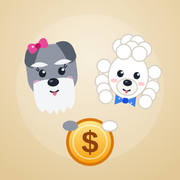
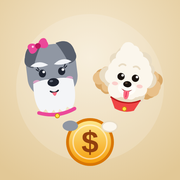
version 6 Ted y deudas

Changed region(s): [[0.5, 0.1667, 0.9167, 0.6389], [0.1944, 0.5833, 0.4444, 0.6667], [0.5556, 0.6667, 0.6389, 0.75]]

diff --git a/index.html b/index.html
@@ -86,8 +86,16 @@ nav .fab{flex:none;width:60px;height:60px;border-radius:50%;background:linear-gr
 .empty span{font-size:40px;display:block;margin-bottom:6px}
 .sect{font-size:13px;font-weight:800;color:var(--mu);text-transform:uppercase;letter-spacing:.06em;margin:16px 4px 8px}
 
-.track{position:relative;margin-top:28px}
-.pups{position:absolute;bottom:5px;transform:translateX(-100%);display:flex;gap:1px;pointer-events:none}
+.track{position:relative;margin-top:40px}
+.pups{position:absolute;bottom:5px;transform:translateX(-100%);display:flex;gap:1px;align-items:flex-end;pointer-events:none}
+.hum{width:22px;height:36px;animation:hop .34s ease-in-out infinite alternate;animation-delay:.08s;margin-right:-2px}
+.hum .lg,.hum .arm{transform-box:fill-box;transform-origin:50% 0;animation:leg .34s ease-in-out infinite alternate}
+.hum .lg.b,.hum .arm.b{animation-direction:alternate-reverse}
+.hum.sit,.hum.sit .lg,.hum.sit .arm{animation:none}
+.pups.done .hum{animation:cheer .6s ease-in-out infinite alternate}
+.pups .heart{position:absolute;top:-14px;left:34%;font-size:14px;animation:pop 1.2s ease-in-out infinite}
+@keyframes cheer{to{transform:translateY(-4px)}}
+@keyframes pop{0%{transform:translate(-50%,0) scale(.7);opacity:.6}50%{transform:translate(-50%,-6px) scale(1.15);opacity:1}100%{transform:translate(-50%,0) scale(.7);opacity:.6}}
 .pup{width:36px;height:25px;animation:hop .34s ease-in-out infinite alternate}
 .pup:nth-child(2){animation-delay:.17s}
 .pup .lg{transform-box:fill-box;transform-origin:50% 0;animation:leg .34s ease-in-out infinite alternate}
@@ -163,7 +171,7 @@ function addMonths(d,n){ const [y,m,dd]=d.split('-').map(Number); const t=new Da
 function toast(msg){ const t=$('#toast'); t.textContent=msg; t.classList.add('show'); clearTimeout(t._h); t._h=setTimeout(()=>t.classList.remove('show'),3000); }
 function fail(e){ console.error(e); toast('⚠ '+(e?.message||String(e))); }
 const num = v => parseFloat(String(v??'').replace(/[^0-9.\-]/g,''))||0;
-function openSheet(html){ $('#sheetBody').innerHTML=html; $('#sheet').classList.add('show'); }
+function openSheet(html){ $('#sheetBody').innerHTML=html; $('#sheet').classList.add('show'); const b=$('#sbox'); if(b){ b.scrollTop=0; b.style.transform=''; } }
 function closeSheet(){ $('#sheet').classList.remove('show'); $('#sbox').style.transform=''; }
 // deslizar hacia abajo para cerrar
 (function(){ let y0=null, dy=0; const box=()=>$('#sbox');
@@ -264,7 +272,7 @@ function gst(g, over){
   let avance,falta,n=0,cuota=0,pend=0,pct=0,st='',stc='hint';
   const cyc=g.cycle_from||g.created_at||'';
   const pagCiclo=-sum(ms.filter(m=>m.kind==='pago'&&(m.created_at||'')>cyc).map(m=>m.amount));
-  if(g.kind==='fijo'){
+  if(isCyc(g)){
     const porPagar=Math.max(0,target-pagCiclo);
     avance=saldo+pagCiclo; falta=Math.max(0,porPagar-saldo);
     n=due?countQ(q,due):Math.max(1,2*freqOf(g));
@@ -522,12 +530,13 @@ function movRow(m){
 
 
 // ---------- perritos corriendo ----------
-function pupLia(run){ // schnauzer gris niña
+function pupLia(run){ // Lia: schnauzer gris niña, pechera rosa
   const f='#9097a3', st='#59606d';
   return `<svg class="pup ${run?'':'sit'}" viewBox="0 0 48 32"><path d="M10 14 Q5 9 7 3" stroke="${st}" stroke-width="3" fill="none" stroke-linecap="round"/>
     <rect class="lg" x="11" y="19" width="3.6" height="10" rx="1.8" fill="${f}"/><rect class="lg b" x="15.6" y="19" width="3.6" height="10" rx="1.8" fill="${f}"/>
     <rect class="lg b" x="25" y="19" width="3.6" height="10" rx="1.8" fill="${f}"/><rect class="lg" x="29.6" y="19" width="3.6" height="10" rx="1.8" fill="${f}"/>
     <rect x="8" y="11" width="27" height="11.5" rx="5.7" fill="${f}"/><path d="M12 22 q3 4 6 0 q3 4 6 0 q3 4 6 0" fill="#e5e7eb"/>
+    <path d="M24 11 h7 v11.5 h-7 z" fill="#ec4899"/><path d="M24 15.5 h7" stroke="#be185d" stroke-width="1"/><circle cx="27.5" cy="11.6" r="1.1" fill="#fde047"/>
     <rect x="29" y="3.5" width="12.5" height="12.5" rx="4" fill="${f}"/>
     <path d="M30 6 Q31 1 36.5 3 Q33 5 32 10.5 Z" fill="${st}"/>
     <path d="M36 9.5 h8 a2.2 2.2 0 0 1 0 4.4 h-1 q-1 6.5 -7.5 5 z" fill="#f4f5f7"/>
@@ -535,28 +544,47 @@ function pupLia(run){ // schnauzer gris niña
     <circle cx="37" cy="8.6" r="1.2" fill="#1f2430"/><path d="M36 7.6 l-1.2 -1" stroke="#1f2430" stroke-width=".7"/><circle cx="45" cy="11.3" r="1.6" fill="#1f2430"/>
     <path d="M31.5 3.2 c-1 -2.6 -4 -2.4 -3.6 0 c-.4 2.4 2.6 2.6 3.6 0z M31.5 3.2 c1 -2.6 4 -2.4 3.6 0 c.4 2.4 -2.6 2.6 -3.6 0z" fill="#ec4899"/><circle cx="31.5" cy="3.2" r="1.1" fill="#be185d"/></svg>`;
 }
-function pupTed(run){ // poodle blanco niño
-  const f='#ffffff', st='#cfc8bb';
-  const leg=(x,c)=>`<g class="lg ${c}"><rect x="${x}" y="19" width="3" height="9" rx="1.5" fill="${f}" stroke="${st}" stroke-width=".7"/><circle cx="${x+1.5}" cy="28.6" r="2.4" fill="${f}" stroke="${st}" stroke-width=".7"/></g>`;
-  return `<svg class="pup ${run?'':'sit'}" viewBox="0 0 48 32"><path d="M10 15 Q7 11 7.5 7" stroke="${st}" stroke-width="1.6" fill="none"/><circle cx="7" cy="5.5" r="3.6" fill="${f}" stroke="${st}" stroke-width=".8"/>
-    ${leg(11,'')}${leg(15.5,'b')}${leg(25,'b')}${leg(29.5,'')}
-    <ellipse cx="21" cy="16.5" rx="13" ry="6.8" fill="${f}" stroke="${st}" stroke-width=".9"/>
-    <circle cx="23" cy="11.5" r="3" fill="${f}" stroke="${st}" stroke-width=".7"/><circle cx="28" cy="11" r="3" fill="${f}" stroke="${st}" stroke-width=".7"/>
-    <circle cx="36.5" cy="10.5" r="6.4" fill="${f}" stroke="${st}" stroke-width=".9"/>
-    <circle cx="34" cy="4.2" r="3.2" fill="${f}" stroke="${st}" stroke-width=".7"/><circle cx="38.5" cy="3.4" r="3.1" fill="${f}" stroke="${st}" stroke-width=".7"/><circle cx="36.3" cy="2.6" r="2.6" fill="${f}" stroke="${st}" stroke-width=".7"/>
-    <ellipse cx="33" cy="13.5" rx="3" ry="5" fill="${f}" stroke="${st}" stroke-width=".8"/>
-    <ellipse cx="43" cy="12.4" rx="3.8" ry="2.7" fill="#faf7f2" stroke="${st}" stroke-width=".7"/>
-    <circle cx="38.2" cy="9.3" r="1.15" fill="#1f2430"/><circle cx="46" cy="11.9" r="1.4" fill="#1f2430"/>
-    <path d="M33 18 l-3 -1.8 v3.6z M33 18 l3 -1.8 v3.6z" fill="#3b82f6"/><circle cx="33" cy="18" r="1" fill="#1d4ed8"/></svg>`;
+function pupTed(run){ // Ted: blanco crema esponjado, orejas beige, pechera roja
+  const f='#fbf6ec', sh='#e6d8bf', ear='#e3b97f';
+  const fl=(x,y,r)=>`<circle cx="${x}" cy="${y}" r="${r}" fill="${f}"/>`;
+  const leg=(x,c)=>`<g class="lg ${c}"><rect x="${x}" y="18" width="3.6" height="10" rx="1.8" fill="${f}" stroke="${sh}" stroke-width=".6"/><circle cx="${x+1.8}" cy="28.4" r="2.3" fill="${f}" stroke="${sh}" stroke-width=".6"/></g>`;
+  return `<svg class="pup ${run?'':'sit'}" viewBox="0 0 48 32">
+    <g class="tail"><circle cx="8" cy="7" r="3.6" fill="${f}" stroke="${sh}" stroke-width=".6"/><circle cx="5.5" cy="4.5" r="2.8" fill="${f}" stroke="${sh}" stroke-width=".6"/><circle cx="9.5" cy="3.5" r="2.4" fill="${f}" stroke="${sh}" stroke-width=".6"/></g>
+    ${leg(11,'')}${leg(15.6,'b')}${leg(25,'b')}${leg(29.6,'')}
+    <ellipse cx="21" cy="16" rx="13.5" ry="7.4" fill="${f}" stroke="${sh}" stroke-width=".8"/>
+    ${fl(12,12,4)}${fl(18,10.5,4)}${fl(25,10.5,4)}${fl(13,20,3.4)}${fl(21,21.5,3.4)}${fl(28,20.5,3.4)}
+    <path d="M24 10 h6.5 v12.5 h-6.5 z" fill="#ef4444"/><path d="M24 15.5 h6.5" stroke="#b91c1c" stroke-width="1"/><circle cx="27.2" cy="10.6" r="1.1" fill="#fde047"/>
+    <circle cx="37" cy="10" r="7" fill="${f}" stroke="${sh}" stroke-width=".8"/>${fl(34,4.5,3.4)}${fl(38.5,3.8,3.2)}${fl(41.5,6,2.8)}
+    <ellipse cx="33.2" cy="11.5" rx="3" ry="4.6" fill="${ear}"/>
+    <ellipse cx="43" cy="12" rx="3.6" ry="2.8" fill="#fffdf8" stroke="${sh}" stroke-width=".6"/>
+    <circle cx="38.6" cy="8.6" r="1.35" fill="#1b1410"/><circle cx="46" cy="11.3" r="1.5" fill="#1b1410"/>
+    <path d="M42 14.2 q1 3.6 2.6 0.6" fill="#fb7185"/></svg>`;
 }
-const pups = (pct,run=true) => `<div class="pups" style="left:max(74px,${pct}%)">${pupTed(run)}${pupLia(run)}</div>`;
+function human(woman, run){ // corren detrás de los perritos
+  const skin='#f1c27d', hair=woman?'#5b3a29':'#2b2118', top=woman?'#a855f7':'#2563eb', pants=woman?'#334155':'#1e293b';
+  return `<svg class="hum ${run?'':'sit'}" viewBox="0 0 26 42">
+    <g class="lg"><rect x="10" y="23" width="3.6" height="14" rx="1.8" fill="${pants}"/><rect x="9.5" y="35.5" width="6" height="3" rx="1.5" fill="#f8fafc" stroke="#94a3b8" stroke-width=".5"/></g>
+    <g class="lg b"><rect x="13" y="23" width="3.6" height="14" rx="1.8" fill="${pants}"/><rect x="12.5" y="35.5" width="6" height="3" rx="1.5" fill="#f8fafc" stroke="#94a3b8" stroke-width=".5"/></g>
+    <g class="arm b"><rect x="10.5" y="12" width="3" height="10" rx="1.5" fill="${skin}"/></g>
+    <rect x="9" y="11" width="9" height="13.5" rx="4" fill="${top}"/>
+    <g class="arm"><rect x="13" y="12" width="3" height="10" rx="1.5" fill="${skin}"/></g>
+    <circle cx="14.5" cy="6" r="4.6" fill="${skin}"/>
+    ${woman?`<path d="M10 6 Q10 0.6 15 1.2 Q19.5 1.6 19 5 Q15 3.4 12 5.6 Z" fill="${hair}"/><path class="pony" d="M10.4 4 Q4 4 3.6 9 Q7 7.6 10.6 7.4 Z" fill="${hair}"/><circle cx="10.6" cy="4.8" r="1.1" fill="#ec4899"/>`
+           :`<path d="M10 5.6 Q10 0.8 15 1 Q19.6 1.4 19 4.6 Q15 3.2 11.4 6.8 Z" fill="${hair}"/>`}
+    <circle cx="17" cy="6" r=".8" fill="#1f2430"/><path d="M16.6 8.4 q1 .8 2 0" stroke="#7c2d12" stroke-width=".6" fill="none"/></svg>`;
+}
+function pups(pct, run=true){
+  const done=!run, showH=pct>=60||done, gap=done?0:Math.round(Math.max(0,100-pct)/40*44);
+  const min=showH?40+64+gap+84:84;
+  return `<div class="pups${done?' done':''}" style="left:max(${min}px,${pct}%)">${showH?human(true,!done)+human(false,!done)+`<i style="width:${gap}px;flex:none"></i>`:''}${pupTed(run)}${pupLia(run)}${done&&showH?'<span class="heart">💖</span>':''}</div>`;
+}
 
 // ---------- INICIO ----------
 function goalRow(g, opts={}){
   const s=gst(g), [bg,fg]=KCOL[g.kind];
   const barCol=s.stc==='red'?'var(--rd)':s.stc==='done'?'var(--pr)':s.stc==='green'?'var(--ok)':fg;
-  const right=g.kind==='fijo'?`${money(s.avance)}<span class="mu"> / ${money(g.target)}</span>`:`${money(s.avance)}${+g.target?`<span class="mu"> / ${money(g.target)}</span>`:''}`;
-  const sub=g.kind==='fijo'?((s.pagCiclo>0.5&&s.pagCiclo<(+g.target||0)-0.5?`Pagado ${money(s.pagCiclo)} · `:'')+(s.due?`Paga ${fmtD(s.due)}`:'Sin fecha de pago')):(s.due?`Meta ${fmtD(s.due)}`:(+g.cuota?`${money(g.cuota)} por quincena`:''));
+  const right=isCyc(g)?`${money(s.avance)}<span class="mu"> / ${money(g.target)}</span>`:`${money(s.avance)}${+g.target?`<span class="mu"> / ${money(g.target)}</span>`:''}`;
+  const sub=isCyc(g)?((s.pagCiclo>0.5&&s.pagCiclo<(+g.target||0)-0.5?`Pagado ${money(s.pagCiclo)} · `:'')+(s.due?(g.subtype==='tdc'?`Límite ${fmtD(s.due)}`:`Paga ${fmtD(s.due)}`):'Sin fecha de pago')+(g.subtype==='tdc'&&+ex(g).total?` · debes ${money(ex(g).total)}`:'')):(s.due?`Meta ${fmtD(s.due)}`:(+g.cuota?`${money(g.cuota)} por quincena`:''));
   return `<div class="item" ${opts.click?`onclick="sheetGoal('${g.id}')" style="cursor:pointer"`:''}>
     <div class="ic" style="background:${bg};color:${fg}">${esc(g.icon||'🎯')}</div>
     <div class="grow"><div class="row"><span class="nm">${esc(g.name)}</span><span class="b" style="white-space:nowrap">${right}</span></div>
@@ -566,7 +594,7 @@ function goalRow(g, opts={}){
 }
 function vInicio(){
   const q=currentQ(), nq=shiftQ(q,1), l=libre(), dl=daysLeft(), gs=activeGoals();
-  const fijos=gs.filter(g=>g.kind==='fijo').sort((a,b)=>(a.due_date||'9')<(b.due_date||'9')?-1:1), metas=gs.filter(g=>g.kind!=='fijo');
+  const fijos=gs.filter(isCyc).sort((a,b)=>(a.due_date||'9')<(b.due_date||'9')?-1:1), metas=gs.filter(g=>!isCyc(g));
   const alerts=gs.map(g=>[g,gst(g)]).filter(([g,s])=>s.stc==='red');
   const banks=S.accounts.map(a=>({a,v:accSaved(a.name)})).filter(x=>Math.abs(x.v)>0.5||+x.a.tope);
   const last=S.movs.filter(movMine).slice(0,6);
@@ -645,14 +673,15 @@ function historyOf(g){
 function sheetMove(id,kind){
   const g=goalById(id), s=gst(g);
   const title={aparta:'＋ Meter dinero',retira:'↩ Sacar dinero',pago:'💳 Registrar pago'}[kind];
-  const porPagar=g.kind==='fijo'?Math.max(0,(+g.target||0)-s.pagCiclo):0;
-  const def=kind==='pago'?(g.kind==='fijo'?Math.min(Math.max(0,s.saldo),porPagar||s.saldo):Math.max(0,s.saldo)):0;
+  const porPagar=isCyc(g)?Math.max(0,(+g.target||0)-s.pagCiclo):0;
+  const def=kind==='pago'?(isCyc(g)?Math.min(Math.max(0,s.saldo),porPagar||s.saldo):Math.max(0,s.saldo)):0;
   openSheet(`<h1>${esc(g.icon||'')} ${esc(g.name)}</h1><div class="mu" style="margin-top:-6px">${title} · saldo ${money(s.saldo)}</div>
   <input id="mv_amt" class="amt" style="margin-top:14px" type="number" inputmode="decimal" value="${def>0?Math.round(def):''}" placeholder="${kind==='aparta'&&s.pend>0.5?Math.round(s.pend):'$0'}">
   ${kind==='aparta'?`<p class="mu">Sale de tu dinero sin repartir (${money(libre())}).${s.pend>0.5?' Vacío = sugerido '+money(s.pend)+'.':''}</p>`:''}
   ${kind==='retira'?`<p class="mu">El dinero que saques regresa a tu <b>saldo libre</b>.</p>`:''}
   ${kind==='pago'?`<p class="mu">Se descuenta de este apartado, no de tu saldo libre. Puedes pagar en partes.</p>
-    ${g.kind==='fijo'?`<div class="card" style="background:var(--bg);box-shadow:none;padding:12px"><div class="row sm"><span>Este periodo</span><b>Pagado ${money(s.pagCiclo)} de ${money(g.target)}</b></div>
+    ${g.subtype==='tdc'?`<div class="row sm" style="margin-bottom:8px"><span>Al corte <b>${money(ex(g).corte)}</b></span><span>Mínimo <b>${money(ex(g).minimo)}</b></span><span>Debes <b>${money(ex(g).total)}</b></span></div>`:''}
+    ${isCyc(g)?`<div class="card" style="background:var(--bg);box-shadow:none;padding:12px"><div class="row sm"><span>Este periodo</span><b>Pagado ${money(s.pagCiclo)} de ${money(g.target)}</b></div>
       <label style="display:flex;gap:10px;align-items:center;margin:10px 0 0;color:var(--tx)"><input id="mv_done" type="checkbox" style="width:22px;height:22px" ${def>=porPagar-0.5?'checked':''}>
       <span>Ya quedó liquidado${g.due_date?`: pasar al siguiente pago (<b>${fmtD(addPeriod(g.due_date,freqOf(g)))}</b>)`:''}</span></label></div>`:''}`:''}
   <div class="grid2"><div><label>Nota</label><input id="mv_note" placeholder="Opcional"></div><div><label>Fecha</label><input id="mv_date" type="date" value="${todayISO()}"></div></div>
@@ -662,39 +691,79 @@ function saveMove(id,kind){
   const g=goalById(id), v=num($('#mv_amt').value)||(kind==='aparta'?Math.round(gst(g).pend):0); if(v<=0) return toast('Escribe un monto');
   if(kind==='aparta'){ if(!doApartar(g,v)) return; }
   else { const ops=[{table:'movements',action:'insert',row:apartarOps(g,v,kind,$('#mv_note').value.trim(),$('#mv_date').value)}];
-    if(kind==='pago'&&g.kind==='fijo'&&($('#mv_done')?.checked || gst(g).pagCiclo+v>=(+g.target||0)-0.5)){
+    if(kind==='pago'&&g.subtype==='tdc'&&+ex(g).total) ops.push({table:'goals',action:'update',row:{extra:{...ex(g),total:Math.max(0,+ex(g).total-v)}},match:{id}});
+    if(kind==='pago'&&isCyc(g)&&($('#mv_done')?.checked || gst(g).pagCiclo+v>=(+g.target||0)-0.5)){
       const row={cycle_from:new Date(Date.now()+120000).toISOString()}; if(g.due_date) row.due_date=addPeriod(g.due_date,freqOf(g));
       ops.push({table:'goals',action:'update',row,match:{id}}); }
     db(ops); }
-  closeSheet(); toast(kind==='pago'?`💳 Pago de ${money(v)} registrado${g.kind==='fijo'&&!$('#mv_done')?.checked&&gst(g).falta>0.5?' · pago parcial':''}`:kind==='retira'?`↩ ${money(v)} regresaron a tu saldo libre`:`✅ ${money(v)} a ${g.name}`);
+  closeSheet(); toast(kind==='pago'?`💳 Pago de ${money(v)} registrado${isCyc(g)&&!$('#mv_done')?.checked&&gst(g).falta>0.5?' · pago parcial':''}${g.subtype==='tdc'&&$('#mv_done')?.checked?' · cuando llegue tu nuevo estado de cuenta, actualiza el saldo al corte':''}`:kind==='retira'?`↩ ${money(v)} regresaron a tu saldo libre`:`✅ ${money(v)} a ${g.name}`);
 }
+const isCyc = g => g.kind==='fijo' || (g.kind==='pago' && g.subtype==='tdc');   // se paga por periodos
+const SUBS = {tdc:'💳 Tarjeta de crédito', prestamo:'🏦 Préstamo', otro:'📄 Otra'};
+const ex = g => g.extra||{};
 function sheetEdit(id){
-  const g=id==='new'?{kind:'fijo',account:(S.accounts[0]||{}).name||'Banorte',owner:defOwner(),icon:'🎯',freq_months:1}:goalById(id);
-  window._ic=g.icon||'🎯';
+  const g=id==='new'?{kind:'fijo',account:(S.accounts[0]||{}).name||'Banorte',owner:defOwner(),icon:'🎯',freq_months:1,subtype:'tdc',extra:{}}:goalById(id);
+  const e=ex(g);
+  window._ic=g.icon||'🎯'; window._sub=g.subtype||(g.kind==='pago'?'otro':'tdc'); window._plan=e.plan||'corte';
   openSheet(`<h1>${id==='new'?'Nuevo apartado':'Editar'}</h1>
   <label>Tipo</label><div class="grid3" id="e_kind">${Object.keys(KINDS).map(k=>`<button class="mini ${g.kind===k?'':'sec'}" data-k="${k}" onclick="setKind('${k}')">${{fijo:'📆 Fijo',pago:'🤝 Deuda',meta:'🎯 Meta'}[k]}</button>`).join('')}</div>
   <input type="hidden" id="e_k" value="${g.kind}">
-  <p class="mu sm" id="e_help" style="margin:8px 0 0">${kindHelp(g.kind)}</p>
-  <label>Ícono</label><div class="chips" id="e_ics" style="flex-wrap:wrap">${EMOJIS.map(e=>`<button class="chip ${e===window._ic?'on':''}" style="padding:6px 9px;font-size:20px" onclick="window._ic='${e}';pickOn('e_ics',this)">${e}</button>`).join('')}</div>
+  <div id="e_subw"><label>¿Qué tipo de deuda?</label><div class="grid3" id="e_sub">${Object.entries(SUBS).map(([k,t])=>`<button class="mini" data-s="${k}" onclick="setSub('${k}')">${t}</button>`).join('')}</div></div>
+  <p class="mu sm" id="e_help" style="margin:8px 0 0"></p>
+  <label>Ícono</label><div class="chips" id="e_ics" style="flex-wrap:wrap">${EMOJIS.map(x=>`<button class="chip ${x===window._ic?'on':''}" style="padding:6px 9px;font-size:20px" onclick="window._ic='${x}';pickOn('e_ics',this)">${x}</button>`).join('')}</div>
   <label>Nombre</label><input id="e_name" value="${esc(g.name)}" placeholder="Ej. Internet">
-  <div class="grid2"><div><label id="e_tl">${g.kind==='fijo'?'Monto a pagar':'Meta total'}</label><input id="e_target" type="number" inputmode="decimal" value="${g.target??''}"></div>
-  <div><label id="e_dl">${g.kind==='fijo'?'Próximo pago':'Fecha meta'}</label><input id="e_due" type="date" value="${g.due_date??''}"></div></div>
-  <div class="grid2"><div id="e_freqw" style="${g.kind==='fijo'?'':'display:none'}"><label>Cada cuánto</label><select id="e_freq">${[[0,'Cada quincena'],[1,'Cada mes'],[2,'Cada 2 meses'],[3,'Cada 3 meses'],[6,'Cada 6 meses'],[12,'Cada año']].map(([n,t])=>`<option value="${n}" ${freqOf(g)===n?'selected':''}>${t}</option>`).join('')}</select></div>
-  <div id="e_cuw" style="${g.kind==='fijo'?'display:none':''}"><label>Cuota fija (opcional)</label><input id="e_cuota" type="number" inputmode="decimal" value="${g.cuota??''}" placeholder="Si no hay fecha"></div>
+  <div id="e_tdc" class="card" style="background:var(--bg);box-shadow:none;padding:12px;margin:12px 0 0">
+    <div class="grid2"><div><label style="margin-top:0">Deuda total</label><input id="e_total" type="number" inputmode="decimal" value="${e.total??''}" placeholder="Todo lo que debes"></div>
+    <div><label style="margin-top:0">Saldo al corte</label><input id="e_corte" type="number" inputmode="decimal" value="${e.corte??''}" placeholder="Para no pagar intereses"></div></div>
+    <div class="grid2"><div><label>Pago mínimo</label><input id="e_min" type="number" inputmode="decimal" value="${e.minimo??''}"></div>
+    <div><label>Fecha de corte</label><input id="e_fcorte" type="date" value="${e.fcorte??''}"></div></div>
+    <label>¿Cuánto vas a pagar este mes?</label><div class="grid3" id="e_plan">${[['corte','Saldo al corte'],['minimo','Mínimo'],['otro','Otra cantidad']].map(([k,t])=>`<button class="mini" data-p="${k}" onclick="setPlan('${k}')">${t}</button>`).join('')}</div>
+    <div id="e_otrow"><label>Otra cantidad</label><input id="e_otro" type="number" inputmode="decimal" value="${e.otro??''}"></div>
+    <p class="mu sm" style="margin-bottom:0">Pagar el saldo al corte evita intereses. Cada mes, cuando llegue tu estado de cuenta, actualiza el saldo al corte y el mínimo.</p></div>
+  <div class="grid2"><div id="e_tw"><label id="e_tl">Monto</label><input id="e_target" type="number" inputmode="decimal" value="${g.target??''}"></div>
+  <div><label id="e_dl">Fecha</label><input id="e_due" type="date" value="${g.due_date??''}"></div></div>
+  <div class="grid2"><div id="e_freqw"><label>Cada cuánto</label><select id="e_freq">${[[0,'Cada quincena'],[1,'Cada mes'],[2,'Cada 2 meses'],[3,'Cada 3 meses'],[6,'Cada 6 meses'],[12,'Cada año']].map(([n,t])=>`<option value="${n}" ${freqOf(g)===n?'selected':''}>${t}</option>`).join('')}</select></div>
+  <div id="e_cuw"><label id="e_cul">Cuota fija (opcional)</label><input id="e_cuota" type="number" inputmode="decimal" value="${g.cuota??''}" placeholder="Si no hay fecha"></div>
   <div><label>Banco</label><select id="e_acc">${S.accounts.map(a=>`<option ${g.account===a.name?'selected':''}>${esc(a.name)}</option>`).join('')}</select></div></div>
   <label>De quién</label><select id="e_owner">${people().map(p=>`<option ${g.owner===p?'selected':''}>${esc(p)}</option>`).join('')}</select>
   <button class="full" style="margin-top:16px" onclick="saveGoal('${id}')">Guardar</button>
   ${id!=='new'?`<div class="grid2" style="margin-top:10px"><button class="sec" onclick="archiveGoal('${id}')">🗄 Archivar</button><button class="dg" onclick="delGoal('${id}')">🗑 Borrar</button></div>${historyOf(g)}`:''}`);
+  setKind(g.kind, true); setPlan(window._plan);
 }
-const kindHelp = k => ({fijo:'Algo que pagas cada cierto tiempo: renta, internet, luz, tarjeta de crédito al corte. Pon cuánto y cuándo pagas; puedes pagarlo en partes.',pago:'Algo que debes: préstamo, mecánico. Pon cuánto debes y para cuándo.',meta:'Algo para lo que ahorras: Navidad, fondo médico. Pon cuánto quieres juntar y para cuándo.'})[k];
-function setKind(k){ $('#e_k').value=k; document.querySelectorAll('#e_kind button').forEach(b=>b.classList.toggle('sec',b.dataset.k!==k));
-  $('#e_help').textContent=kindHelp(k); $('#e_tl').textContent=k==='fijo'?'Monto a pagar':k==='pago'?'Cuánto debes':'Meta total'; $('#e_dl').textContent=k==='fijo'?'Próximo pago':'Fecha meta';
-  $('#e_freqw').style.display=k==='fijo'?'':'none'; $('#e_cuw').style.display=k==='fijo'?'none':''; }
+const HELP = {fijo:'Algo que pagas cada cierto tiempo: renta, internet, luz, Uber. Pon cuánto y cuándo pagas; puedes pagarlo en partes.',
+  meta:'Algo para lo que ahorras: Navidad, fondo médico. Pon cuánto quieres juntar y para cuándo.',
+  tdc:'Tarjeta de crédito: pon tu deuda total, el saldo al corte, el pago mínimo y la fecha límite. La app te dice cuánto apartar para pagar a tiempo.',
+  prestamo:'Préstamo: pon cuánto debes, cuánto pagas cada vez y para cuándo lo quieres liquidar.',
+  otro:'Otra deuda: mecánico, un amigo… pon cuánto debes y para cuándo.'};
+function setKind(k, keepSub){
+  $('#e_k').value=k; document.querySelectorAll('#e_kind button').forEach(b=>b.classList.toggle('sec',b.dataset.k!==k));
+  $('#e_subw').style.display=k==='pago'?'':'none';
+  if(k==='pago') setSub(window._sub==='tdc'||window._sub==='prestamo'||window._sub==='otro'?window._sub:'otro');
+  else { $('#e_tdc').style.display='none'; $('#e_tw').style.display=''; $('#e_help').textContent=HELP[k];
+    $('#e_tl').textContent=k==='fijo'?'Monto a pagar':'Meta total'; $('#e_dl').textContent=k==='fijo'?'Próximo pago':'Fecha meta';
+    $('#e_freqw').style.display=k==='fijo'?'':'none'; $('#e_cuw').style.display=k==='fijo'?'none':''; $('#e_cul').textContent='Cuota fija (opcional)'; }
+}
+function setSub(sb){
+  window._sub=sb; document.querySelectorAll('#e_sub button').forEach(b=>b.classList.toggle('sec',b.dataset.s!==sb));
+  $('#e_help').textContent=HELP[sb]; const tdc=sb==='tdc';
+  $('#e_tdc').style.display=tdc?'':'none'; $('#e_tw').style.display=tdc?'none':''; $('#e_freqw').style.display='none';
+  $('#e_cuw').style.display=tdc?'none':''; $('#e_dl').textContent=tdc?'Fecha límite de pago':sb==='prestamo'?'Liquidarlo para':'Para cuándo';
+  $('#e_tl').textContent='Cuánto debes'; $('#e_cul').textContent=sb==='prestamo'?'Pago por quincena (opcional)':'Cuota fija (opcional)';
+  if(tdc&&window._ic==='🎯'){ window._ic='💳'; }
+}
+function setPlan(p){ window._plan=p; document.querySelectorAll('#e_plan button').forEach(b=>b.classList.toggle('sec',b.dataset.p!==p)); $('#e_otrow').style.display=p==='otro'?'':'none'; }
 function saveGoal(id){
-  const row={kind:$('#e_k').value,icon:window._ic,name:$('#e_name').value.trim(),target:num($('#e_target').value)||null,
+  const kind=$('#e_k').value, sub=kind==='pago'?window._sub:null;
+  const row={kind,subtype:sub,icon:window._ic,name:$('#e_name').value.trim(),target:num($('#e_target').value)||null,
     due_date:$('#e_due').value||null,freq_months:$('#e_freq').value===''?1:+$('#e_freq').value,cuota:num($('#e_cuota').value)||null,account:$('#e_acc').value,owner:$('#e_owner').value};
   if(!row.name) return toast('Ponle nombre');
-  if(row.kind==='fijo'&&!row.target) return toast('Pon el monto a pagar');
+  if(sub==='tdc'){
+    const x={total:num($('#e_total').value)||null,corte:num($('#e_corte').value)||null,minimo:num($('#e_min').value)||null,fcorte:$('#e_fcorte').value||null,plan:window._plan,otro:num($('#e_otro').value)||null};
+    row.extra=x; row.freq_months=1; row.cuota=null;
+    row.target = x.plan==='minimo'?x.minimo : x.plan==='otro'?x.otro : (x.corte||x.total);
+    if(!row.target) return toast(x.plan==='minimo'?'Pon el pago mínimo':x.plan==='otro'?'Pon la cantidad a pagar':'Pon el saldo al corte');
+  }
+  if(kind==='fijo'&&!row.target) return toast('Pon el monto a pagar');
   if(id==='new'){ row.sort=S.goals.length; db({table:'goals',action:'insert',row}); } else db({table:'goals',action:'update',row,match:{id}});
   closeSheet(); toast('✅ Guardado');
 }
@@ -727,7 +796,7 @@ function vAnalisis(){
   const trn=sum(S.movs.filter(m=>(m.kind==='trans_in'||(m.kind==='trans_out'&&!m.goal_id))&&movMine(m)&&inRange(m,R.a,R.b)).map(m=>m.amount));
   const gLibre=-sum(S.movs.filter(m=>m.kind==='gasto'&&!m.goal_id&&movMine(m)&&inRange(m,R.a,R.b)).map(m=>m.amount));
   // compromiso: lo que piden los apartados vs ingreso promedio de las últimas 4 quincenas
-  const cuotas=sum(activeGoals().map(g=>{ const s=gst(g); return g.kind==='fijo'?perQ(g):(s.falta>0.5?s.cuota:0); }));
+  const cuotas=sum(activeGoals().map(g=>{ const s=gst(g); return isCyc(g)?perQ(g):(s.falta>0.5?s.cuota:0); }));
   let qs=[],q=currentQ(); for(let i=0;i<4;i++){ q=shiftQ(q,-1); qs.push(q); }
   const qsWith=qs.filter(x=>ingresadoQ(x)>0); const prom=qsWith.length?sum(qsWith.map(ingresadoQ))/qsWith.length:ingresadoQ(currentQ());
   const sg=goalById(S.sim.id)||activeGoals().find(g=>g.kind!=='fijo')||activeGoals()[0];
@@ -764,7 +833,7 @@ function vSim(g){
   return `<div class="card"><h2>🧪 Simulador · ¿qué pasa si…?</h2>
     <label>Apartado</label><select onchange="S.sim={id:this.value};render()">${activeGoals().map(x=>`<option value="${x.id}" ${x.id===g.id?'selected':''}>${esc(x.icon||'')} ${esc(x.name)}</option>`).join('')}</select>
     <div class="grid2"><div><label>Meter extra hoy</label><input type="number" inputmode="decimal" value="${S.sim.extra||''}" placeholder="$0" onchange="S.sim.id='${g.id}';S.sim.extra=num(this.value);render()"></div>
-    <div><label>${g.kind==='fijo'?'Próximo pago':'Nueva fecha'}</label><input type="date" value="${o.due||''}" onchange="S.sim.id='${g.id}';S.sim.due=this.value;render()"></div></div>
+    <div><label>${isCyc(g)?'Próximo pago':'Nueva fecha'}</label><input type="date" value="${o.due||''}" onchange="S.sim.id='${g.id}';S.sim.due=this.value;render()"></div></div>
     <div class="grid2" style="margin-top:14px;text-align:center">
       <div style="background:var(--bg);border-radius:14px;padding:10px"><div class="mu">Hoy</div><div class="b">${money(s.cuota)}/quincena</div><div class="mu sm">libre ${money(l/dl)}/día</div></div>
       <div style="background:var(--prl);border-radius:14px;padding:10px"><div class="mu">Con el cambio</div><div class="b" style="color:var(--pr)">${money(n.cuota)}/quincena</div><div class="mu sm">libre ${money(l2/dl)}/día</div></div></div>

diff --git a/sw.js b/sw.js
@@ -1,5 +1,5 @@
 // Guarda la app en el teléfono para que abra rápido y sin internet
-const CACHE = 'finanzas-v6';
+const CACHE = 'finanzas-v7';
 const LOCAL = ['./', './index.html', './icon.png', './logo.svg'];
 const LIBS = [
   'https://cdn.jsdelivr.net/npm/@supabase/supabase-js@2/dist/umd/supabase.min.js',
